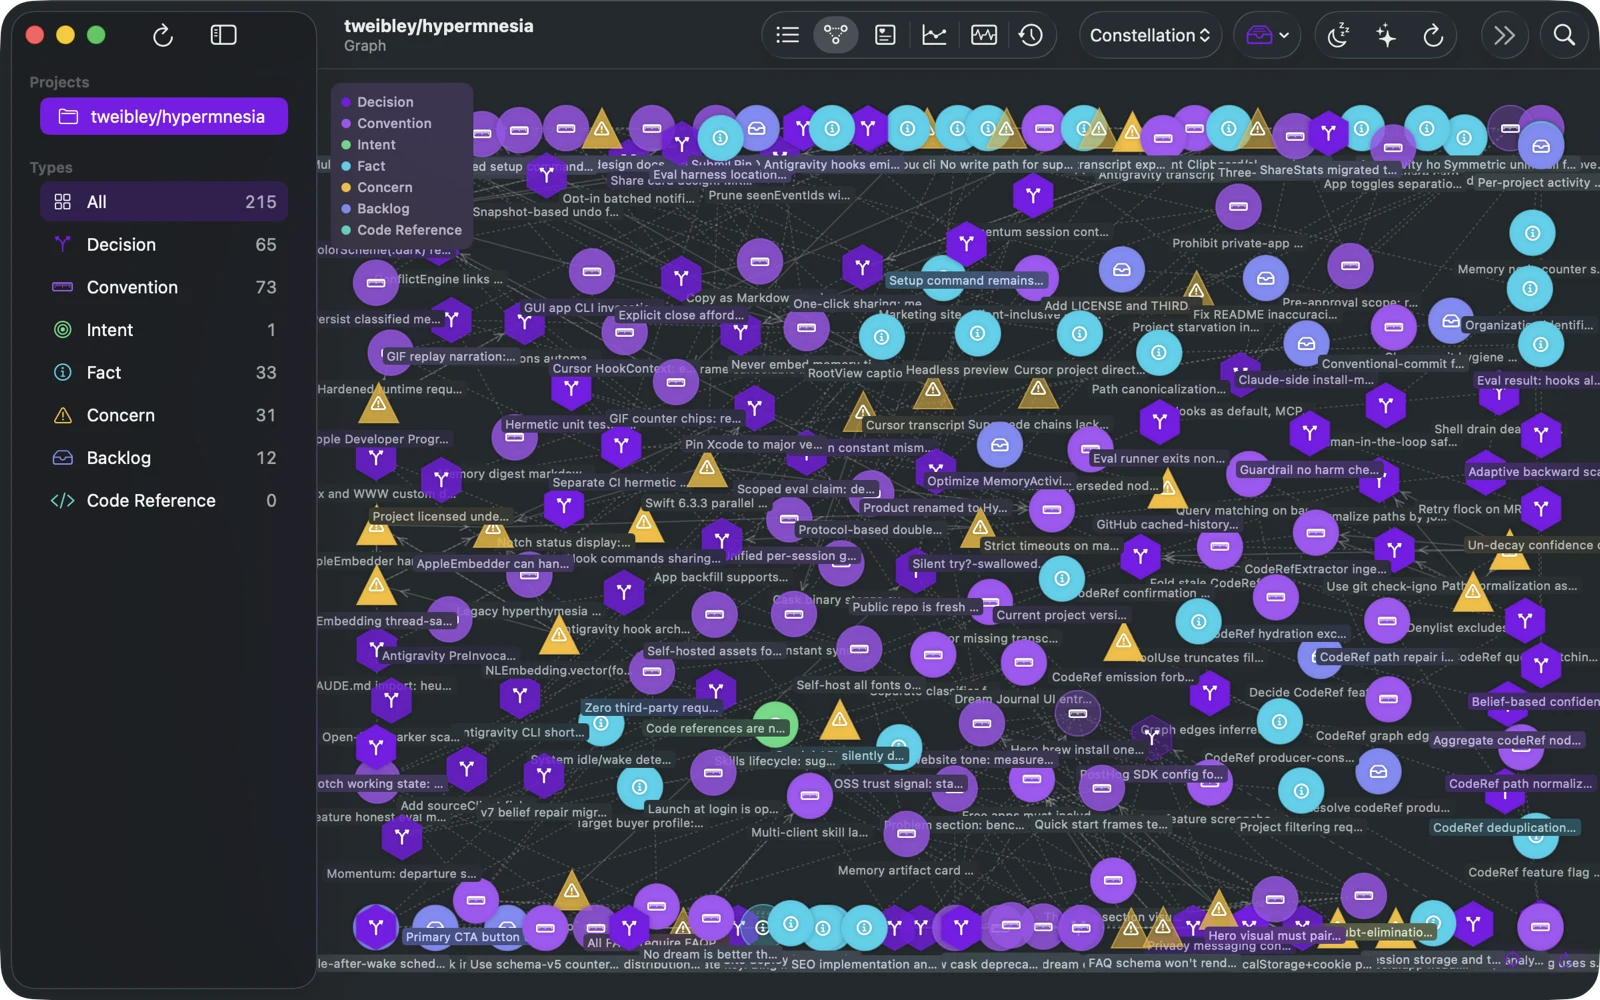
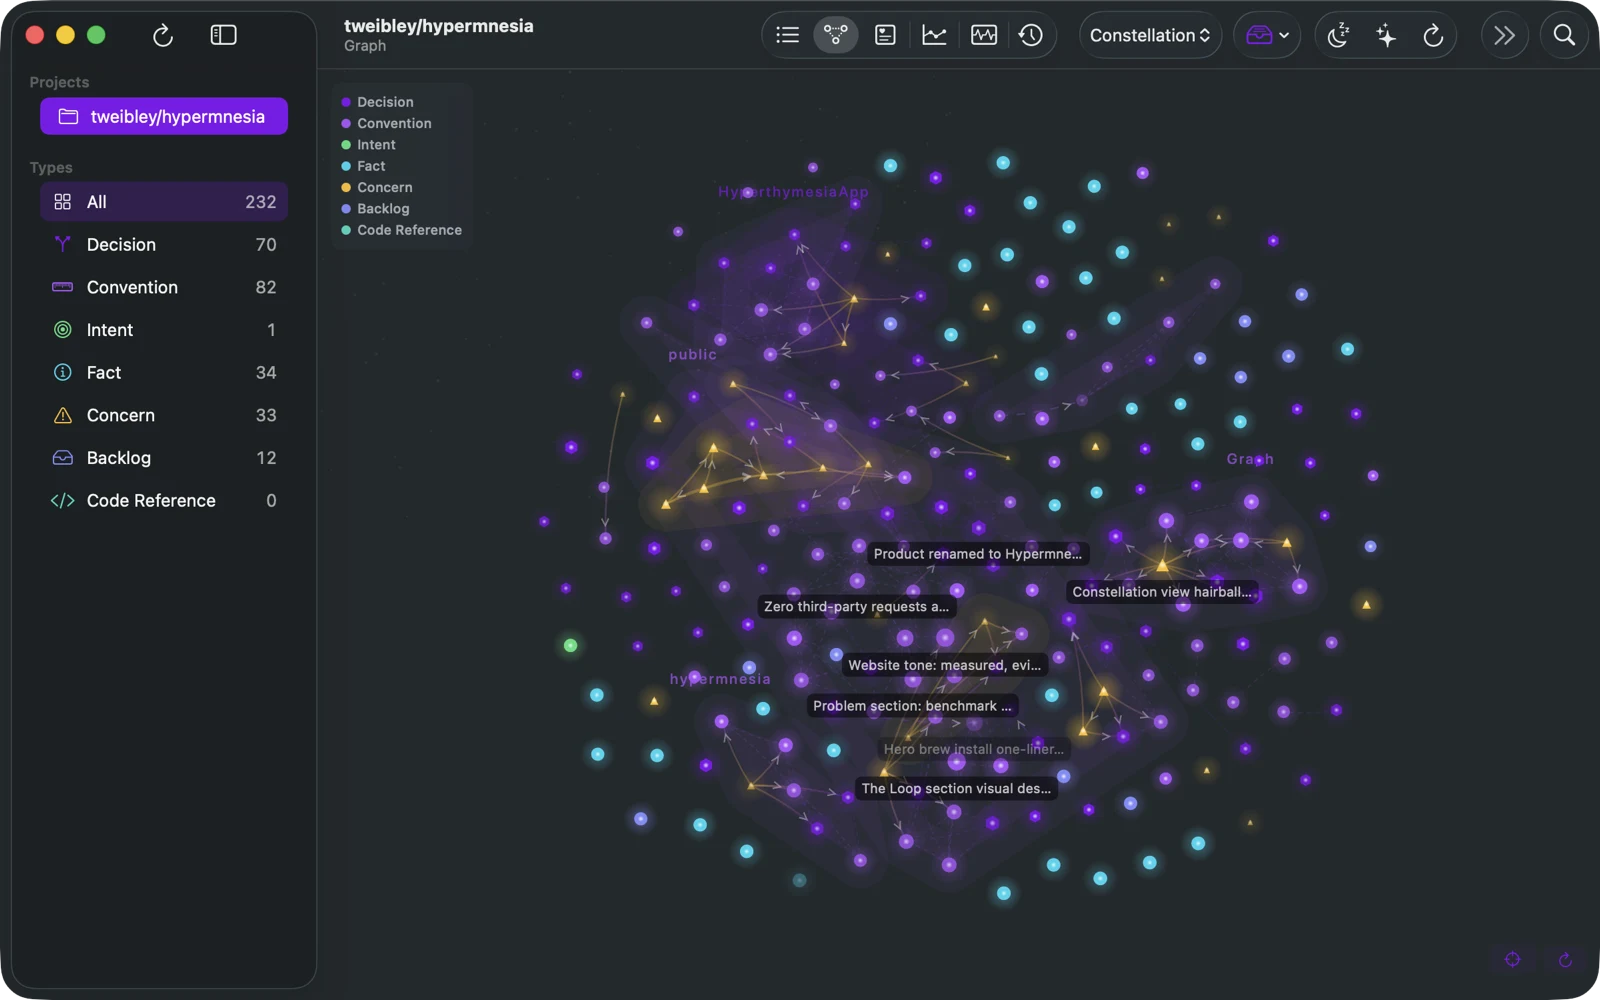
chore(site): refresh constellation screenshot after graph layout rework

diff --git a/site/public/index.html b/site/public/index.html
@@ -327,7 +327,7 @@ posthog.init('phc_yEhc9D5ih2obNdsHMv6VZhkVJzVKRm9rjPY84HQTrwjA',{
 
       <figure class="tour-item reveal">
         <h3>The constellation</h3>
-        <p>All 215 memories at once, linked by inferred edges — decisions to the conventions they produced, concerns to the code they guard. Three layouts; this is Constellation.</p>
+        <p>Every memory at once — 232 by this frame, seventeen more than the shots around it, captured in the minutes between screenshots — linked by inferred edges: decisions to the conventions they produced, concerns to the code they guard. Three layouts; this is Constellation.</p>
         <img src="/media/app/app-graph.webp" width="1600" height="1000" loading="lazy"
              alt="The Graph view: hundreds of typed memory nodes — decisions, conventions, facts, concerns — connected by faint inferred edges, with a type legend and per-type counts in the sidebar">
       </figure>